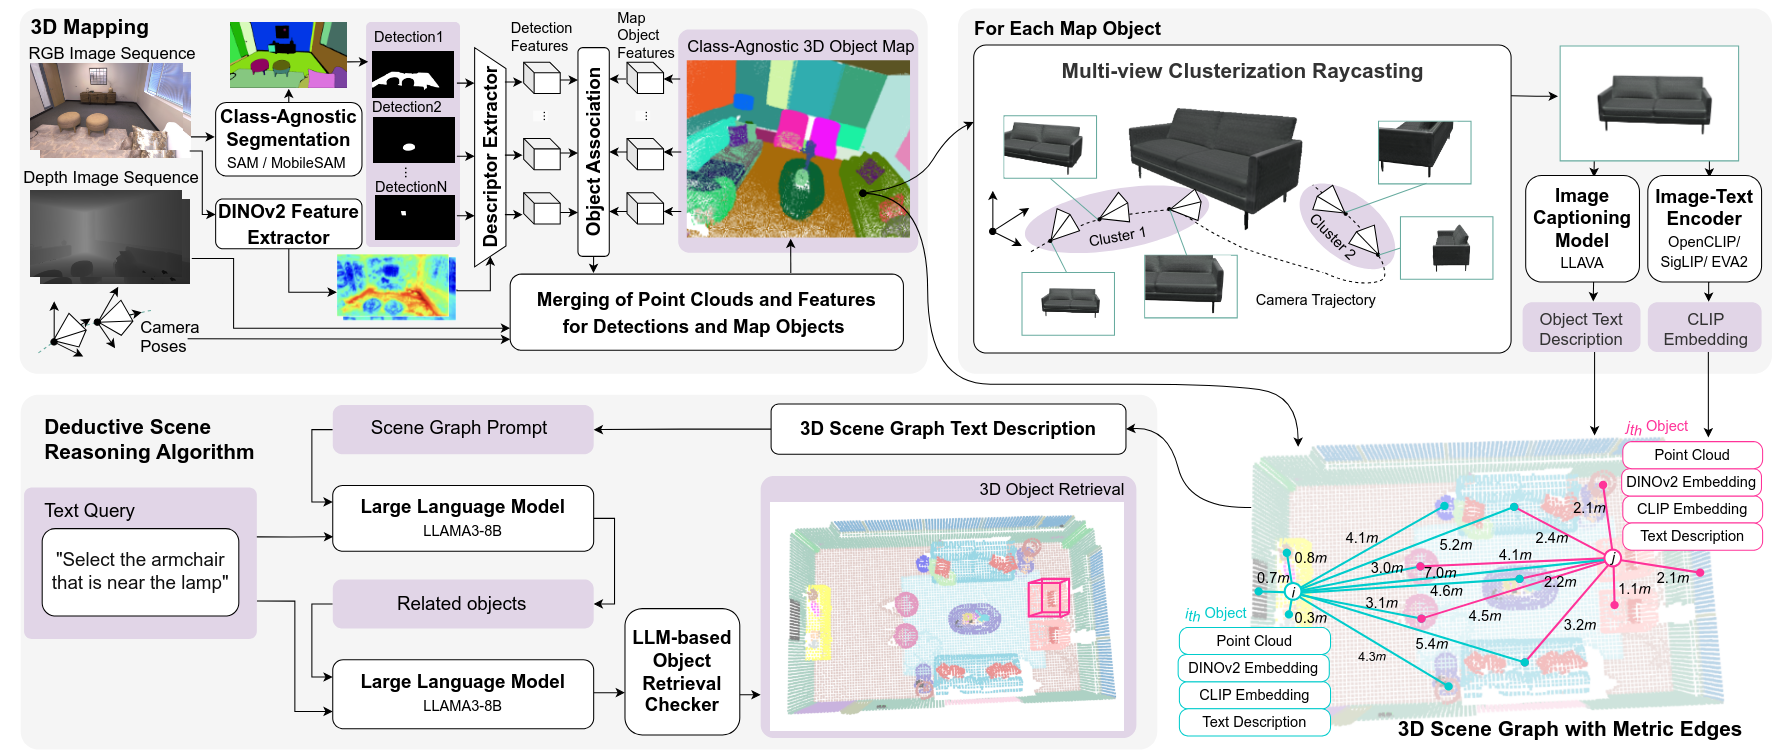
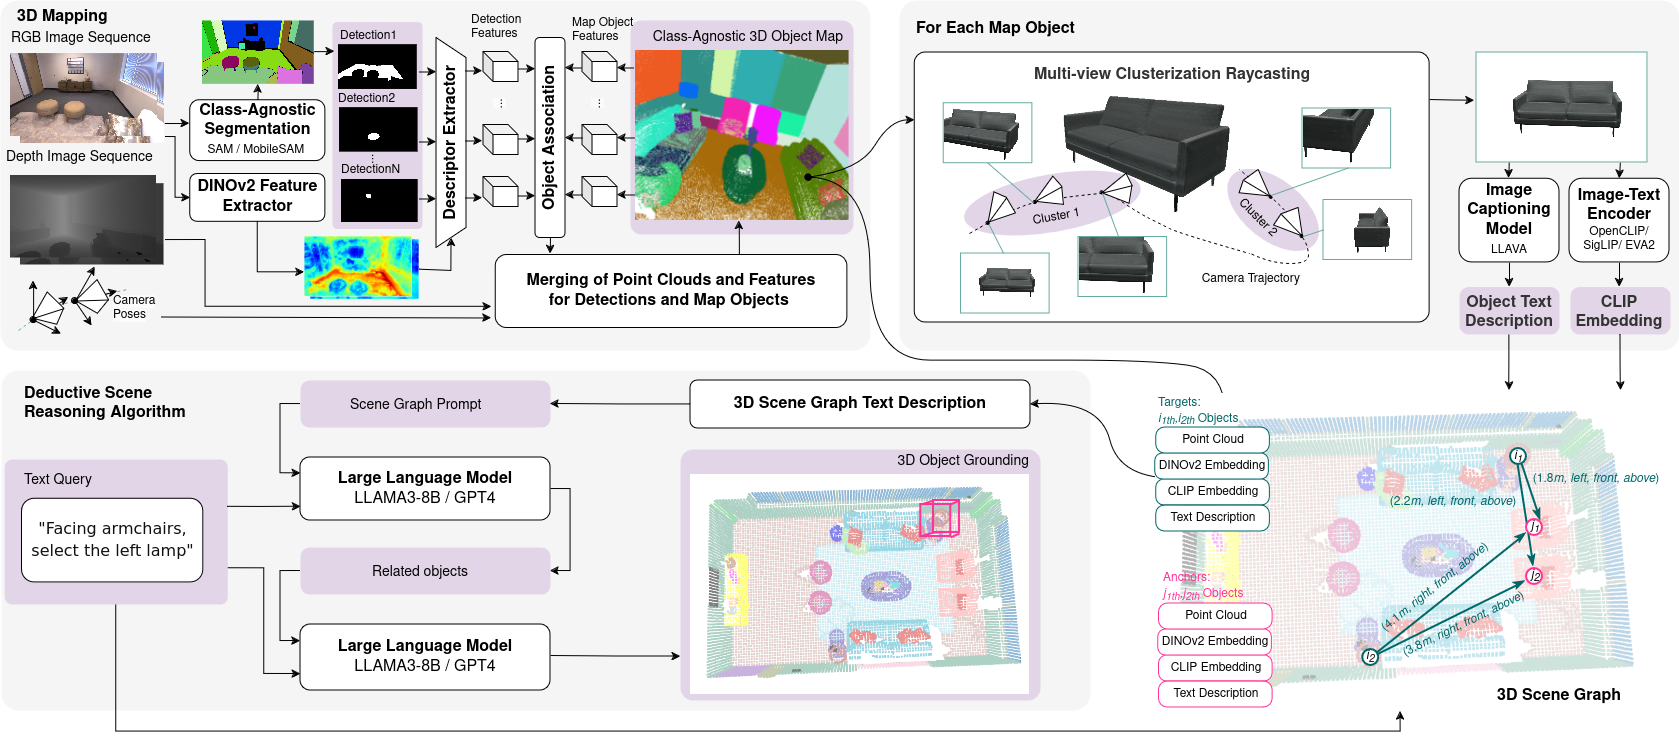
update

diff --git a/README.md b/README.md
@@ -1,19 +1,24 @@
 <p align="center">
 
-  <h1 align="center">Beyond Bare Queries: Open-Vocabulary Object Retrieval with 3D Scene Graph</h1>
+  <h1 align="center">Beyond Bare Queries: <br>
+Open-Vocabulary Object Grounding with 3D Scene Graph</h1>
   <p align="center">
-    <a href="https://github.com/linukc"><strong>Linok Sergey</strong></a>
+    <a href="https://github.com/linukc">Linok Sergey</a>
     ·
-    <a href="https://github.com/wingrune"><strong>Tatiana Zemskova</strong></a>
+    <a href="https://github.com/wingrune">Tatiana Zemskova</a>
     ·
-    <a href=""><strong>Svetlana Ladanova</strong></a>
+    Svetlana Ladanova
     ·
-    <a href=""><strong>Roman Titkov</strong></a>
+    Roman Titkov
     ·
-    <a href=""><strong>Dmitry Yudin</strong></a>
+    Dmitry Yudin
+    <br>
+    Maxim Monastyrnyy
+    ·
+    Aleksei Valenkov
   </p>
 
-  <h4 align="center"><a href="https://arxiv.org/abs/2406.07113">Paper</a> | <a href="https://arxiv.org/abs/2406.07113">arXiv</a> | <a href="https://linukc.github.io/BeyondBareQueries/">Project Page</a></h4>
+  <h4 align="center"><a href="">arXiv</a> | <a href="https://github.com/linukc/BeyondBareQueries">Code</a></h4>
   <div align="center"></div>
 </p>
 
@@ -24,7 +29,7 @@
 ## Getting Started
 
 ### System Requirements
-18GB+ vRAM
+10GB+ vRAM to run mapping and 16GB+ vRAM to run local LLM and vLLM
 
 ### Data Preparation
 
@@ -50,31 +55,39 @@ pip install -e .
 
 ### Run BBQ
 
+#### Mapping
+
 First, build 3D scene representation. Check config before run. Inside container call script:
 
 ```python
-python3 main.py --config_path=examples/configs/replica_room0.yaml #Replica
-python3 main.py --config_path=examples/configs/scannet_scene0011_00.yaml #ScanNet
+python3 main.py --config_path=examples/configs/replica/room0.yaml #Replica
+python3 main.py --config_path=examples/configs/scannet/scene0011_00.yaml #ScanNet
 ```
 
 To visualize construction process:
 ```python
-python3 main.py --config_path=examples/configs/replica_room0.yaml --save_path=output
+python3 main.py --config_path=examples/configs/replica/room0.yaml --save_path=output
 python3 visualize/show_construction.py --animation_folder=output
 ```
 
-Construct 3D scene graph and enter natural language query. Inside container call script:
+#### Object Grounding
+
+##### Llama3-8B
+
+Setup Meta-Llama-3-8B-Instruct according to the [docs](https://huggingface.co/meta-llama/Meta-Llama-3-8B-Instruct).
+
 ```python
-python3 query.py --nodes=examples/scenes/replica_room0.json #Replica
-python3 query.py --nodes=examples/scenes/scannet_scene0011_00.json #ScanNet
+# Llama3-8B
+python3 query.py --scene_file=examples/scenes/replica/room0.json --model_path=<your_path>/Meta-Llama-3-8B-Instruct #Replica
+python3 query.py --scene_file=examples/scenes/scannet/scene0011_00.json --model_path=<your_path>/Meta-Llama-3-8B-Instruct #ScanNet
 ```
 
 ## Acknowledgement
-We base our work on the following paper: [ConceptGraphs](https://github.com/concept-graphs/concept-graphs).
+We base our work on the following paper codebase: [ConceptGraphs](https://github.com/concept-graphs/concept-graphs).
 
 ## Citation
 If you find this work helpful, please consider citing our work as:
-```
+<!-- ```
 @misc{linok2024barequeriesopenvocabularyobject,
       title={Beyond Bare Queries: Open-Vocabulary Object Retrieval with 3D Scene Graph}, 
       author={Sergey Linok and Tatiana Zemskova and Svetlana Ladanova and Roman Titkov and Dmitry Yudin},
@@ -84,7 +97,7 @@ If you find this work helpful, please consider citing our work as:
       primaryClass={cs.CV},
       url={https://arxiv.org/abs/2406.07113}, 
 }
-```
+``` -->
 
 ## Contact
 Please create an issue on this repository for questions, comments and reporting bugs. Send an email to [Linok Sergey](linok.sa@phystech.edu) for other inquiries.
